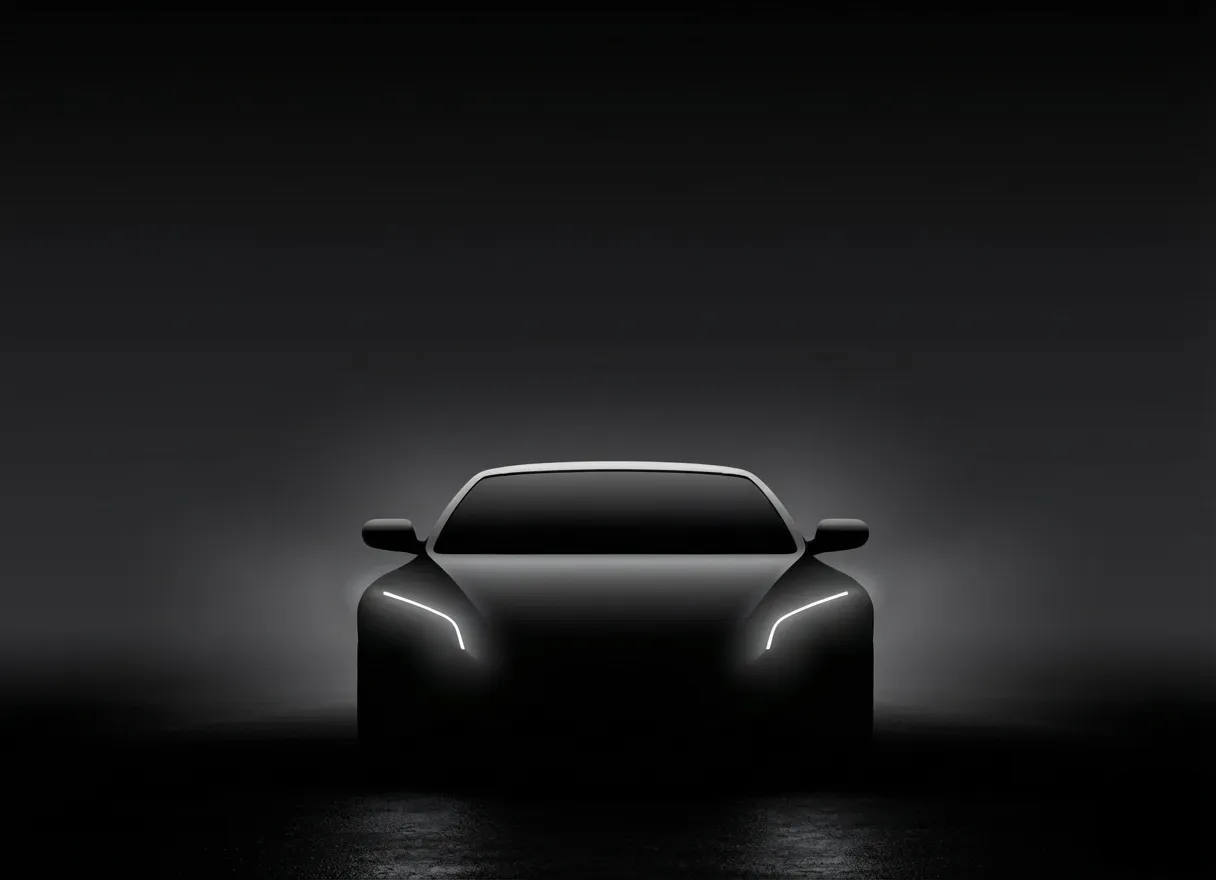
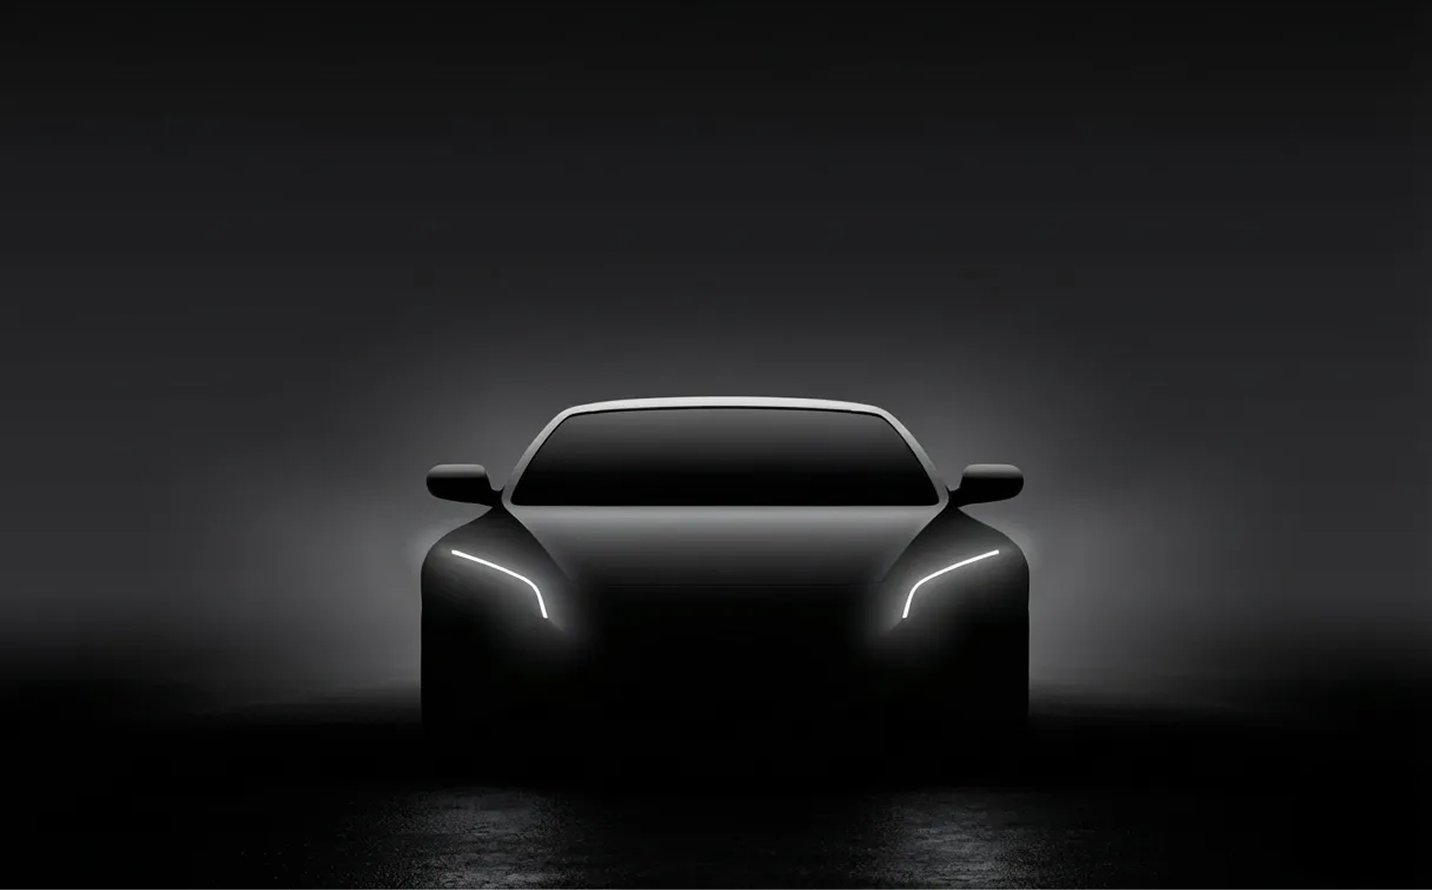
updated

diff --git a/src/Components/HeroSection/HeroSection.jsx b/src/Components/HeroSection/HeroSection.jsx
@@ -32,7 +32,7 @@ const HeroSection = () => {
         <img
           src="/Images/hero-image.png"
           alt=""
-          className="w-full h-auto rounded-bl-4xl rounded-br-4xl"
+          className="w-full h-screen object-cover rounded-bl-4xl rounded-br-4xl"
           id="hero-image"
         />
 
@@ -50,7 +50,7 @@ const HeroSection = () => {
         <div className="absolute z-10 bottom-22 left-15 w-[24%]">
           <div className="flex gap-3 items-center">
             <span className="h-8 border-[3px] border-[#9A85FF]"></span>
-            <p className="text-[16px] font-medium text-white leading-5">
+            <p className="text-[14px] font-medium text-white leading-5">
               Book trusted car services, compare prices, and manage everything
               online.
             </p>
